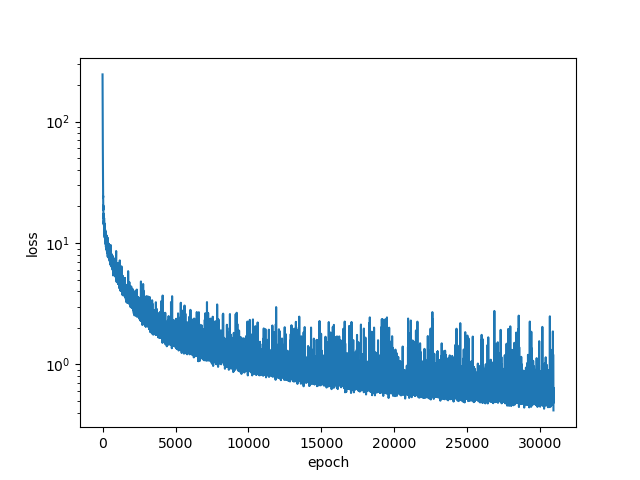
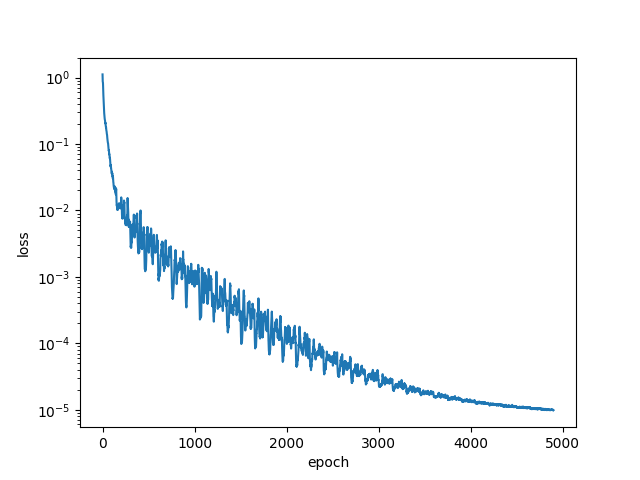
remove old output images and add re20 result refactor stepper and plotter removed autoencoder

diff --git a/stepper.py b/stepper.py
@@ -4,20 +4,21 @@ import torch
 import data_loader
 import vae as V
 import math
-import matplotlib.pyplot as plt
 
 # map reynolds number [1, 200) -> [0, 1)
 def normalize_reynolds( re ):
   # return re
   return math.log( re )
 
+# takes a latent vector and reynolds number, (N, 33)
+# outputs a new latent vector (N, 32)
 class LatentStepper(torch.nn.Module):
   def __init__(self):
     super(LatentStepper, self).__init__()
 
     latent_size = 32
-    hidden_size = 256
-    hidden_layers = 8
+    hidden_size = 128
+    hidden_layers = 6
 
     self.stepper = torch.nn.Sequential(
       torch.nn.Linear( latent_size+1, hidden_size ),
@@ -48,27 +49,27 @@ def main():
   print( 'loading datasets...' )
 
   re200raw = data_loader.load_file( 're200.dat' )
-  re200mu, re200logvar = encoder.encode( re200raw )
+  re200mu, _ = encoder.encode( re200raw )
   del re200raw
   print( 're200 end' )
 
   re100raw = data_loader.load_file( 're100.dat' )
-  re100mu, re100logvar = encoder.encode( re100raw )
+  re100mu, _ = encoder.encode( re100raw )
   del re100raw
   print( 're100 end' )
 
   re60raw = data_loader.load_file( 're60.dat' )
-  re60mu, re60logvar = encoder.encode( re60raw )
+  re60mu, _ = encoder.encode( re60raw )
   del re60raw
   print( 're60 end' )
 
   re40raw = data_loader.load_file( 're40.dat' )
-  re40mu, re40logvar = encoder.encode( re40raw )
+  re40mu, _ = encoder.encode( re40raw )
   del re40raw
   print( 're40 end' )
 
   re5raw = data_loader.load_file( 're5.dat' )
-  re5mu, re5logvar = encoder.encode( re5raw )
+  re5mu, _ = encoder.encode( re5raw )
   del re5raw
   print( 're5 end' )
 
@@ -76,21 +77,11 @@ def main():
 
   prestep_mu = torch.concatenate(
     [
-      re200mu[0:N-1],
-      re100mu[0:N-1],
-      re60mu[0:N-1],
-      re40mu[0:N-1],
-      re5mu[0:N-1]
-    ],
-    dim=0
-  )
-  prestep_logvar = torch.concatenate(
-    [
-      re200logvar[0:N-1],
-      re100logvar[0:N-1],
-      re60logvar[0:N-1],
-      re40logvar[0:N-1],
-      re5logvar[0:N-1]
+      re200mu[0:-1],
+      re100mu[0:-1],
+      re60mu[0:-1],
+      re40mu[0:-1],
+      re5mu[0:-1]
     ],
     dim=0
   )
@@ -104,78 +95,45 @@ def main():
     ],
     dim=0
   )
-  poststep_mu = torch.concatenate(
+  inputs = torch.concatenate( [prestep_mu, prestep_reynolds], dim=1 )
+  answer = torch.concatenate(
     [
-      re200mu[1:N],
-      re100mu[1:N],
-      re60mu[1:N],
-      re40mu[1:N],
-      re5mu[1:N]
-    ],
-    dim=0
-  )
-  poststep_logvar = torch.concatenate(
-    [
-      re200logvar[1:N],
-      re100logvar[1:N],
-      re60logvar[1:N],
-      re40logvar[1:N],
-      re5logvar[1:N]
+      re200mu[1:],
+      re100mu[1:],
+      re60mu[1:],
+      re40mu[1:],
+      re5mu[1:]
     ],
     dim=0
   )
 
 
-  Epochs = 100000
+  Epochs = 5000
   BatchSize = 30
 
   stepper = LatentStepper()
   stepper.train( True )
   optimizer = torch.optim.Adam( stepper.parameters(), lr=0.001 )
-  scheduler = torch.optim.lr_scheduler.ExponentialLR( optimizer, 0.996 )
+  scheduler = torch.optim.lr_scheduler.StepLR( optimizer, step_size=150, gamma=0.85 )
 
   stepper = stepper.to( device )
-  prestep_mu = prestep_mu.to( device )
-  prestep_logvar = prestep_logvar.to( device )
-  prestep_reynolds = prestep_reynolds.to( device )
-  poststep_mu = poststep_mu.to( device )
-  poststep_logvar = poststep_logvar.to( device )
+  inputs = inputs.detach().to( device )
+  answer = answer.detach().to( device )
 
   min_loss = 1e+9
   losses = []
   for epoch in range(Epochs):
-    shuffled_indices = torch.randperm( prestep_mu.shape[0] )
+    shuffled_indices = torch.randperm( inputs.shape[0] )
+    shuffled_inputs = inputs[shuffled_indices].detach().to(device)
+    shuffled_answer = answer[shuffled_indices].detach().to(device)
+    avg_loss = 0
 
-    shuffled_pre_mu = prestep_mu[shuffled_indices].detach()
-    shuffled_pre_logvar = prestep_logvar[shuffled_indices].detach()
-    shuffled_pre_reynolds = prestep_reynolds[shuffled_indices].detach()
-    shuffled_post_mu = poststep_mu[shuffled_indices].detach()
-    shuffled_post_logvar = poststep_logvar[shuffled_indices].detach()
+    for batch in range(0, inputs.shape[0], BatchSize):
+      batch_inputs = shuffled_inputs[batch:batch+BatchSize]
+      batch_answer = shuffled_answer[batch:batch+BatchSize]
 
-    L = 8
-
-    # p(x|z) = exp( -(x-mu)^2 / 2sigma^2 ) / sqrt(2*pi*sigma^2)
-    # log p(x|z) = -(x-mu)^2 / 2sigma^2 - 0.5*log(2*pi*sigma^2)
-    #            = -(x-mu)^2 / 2sigma^2 - 0.5*(  log(sigma^2) + log(2*pi)  )
-    # here, mu and sigma belongs to post step latent distributions
-
-    avg_loss = 0.0
-
-    for batch in range(0, prestep_mu.shape[0], BatchSize):
-      pre_mu = shuffled_pre_mu[batch:batch+BatchSize]
-      pre_logvar = shuffled_pre_logvar[batch:batch+BatchSize]
-      pre_reynolds = shuffled_pre_reynolds[batch:batch+BatchSize]
-      post_mu = shuffled_post_mu[batch:batch+BatchSize]
-      post_logvar = shuffled_post_logvar[batch:batch+BatchSize]
-      log_p = 0.0
-      for sample in range(L):
-        pre_z = encoder.reparameterize( pre_mu, pre_logvar )
-        predict_post_z = stepper( torch.hstack( [pre_z, pre_reynolds] ) )
-        lp = -0.5*(post_mu-predict_post_z).pow(2) / post_logvar.exp() - 0.5*post_logvar
-        log_p = log_p + lp.sum()
-      log_p = log_p / L / BatchSize
-
-      loss = -log_p
+      batch_predict = stepper( batch_inputs )
+      loss = torch.nn.functional.mse_loss( batch_predict, batch_answer )
 
       optimizer.zero_grad()
       loss.backward()
@@ -183,26 +141,18 @@ def main():
       optimizer.step()
     
     scheduler.step()
-    print( optimizer.param_groups[0]['lr'] )
+    # print( f'lr: {optimizer.param_groups[0]['lr']}' )
 
-    avg_loss = avg_loss / (prestep_mu.shape[0]//BatchSize)
+    avg_loss = avg_loss / (inputs.shape[0]//BatchSize)
     losses.append( avg_loss )
     print( "Epoch {} loss: {}".format( epoch, avg_loss ) )
-    if avg_loss < min_loss:
-      min_loss = avg_loss
+
+    if epoch % 100 == 0:
       torch.save( stepper.state_dict(), 'stepper.pt' )
       torch.save( optimizer.state_dict(), 'stepper_optim.pt' )
       torch.save( losses, 'stepper_loss.pt' )
 
 
-
-
-
-  plt.plot( losses )
-  plt.yscale( 'log' )
-  plt.ylabel( 'loss' )
-  plt.xlabel( 'epochs' )
-  plt.show()
 
 if __name__ == '__main__':
   main()

diff --git a/plotter.py b/plotter.py
@@ -1,5 +1,9 @@
 #! /usr/bin/python3
 
+'''
+this will simulate on the latent-space and saves the decoded images
+'''
+
 import os
 
 import matplotlib.pyplot as plt
@@ -42,7 +46,7 @@ def step( re ):
   global state
   global latent_mu, latent_logvar
   next_latent = stepper.step( latent_mu, re )
-  next_state, _ = encoder.decode( next_latent )
+  next_state = encoder.decode( next_latent )
   state = next_state*cylinder_mask
   latent_mu = next_latent
 

diff --git a/README.md b/README.md
@@ -8,14 +8,15 @@ A simulation of wake behind cylinder. dimensionality reduction by variational au
 This is a simple simulation of wake behind a cylinder. 
 The simulation is done using Lattice Boltzmann Method. ( see `cylinder.cpp` )
 
-The simulation is done for three different Reynolds numbers($Re = 5, 40, 200$). 
+The simulation is done for five different Reynolds numbers($Re = 5, 40, 60, 100, 200$). 
 
 ### 2. Dimensionality reduction by Variational Auto Encoder
-The simulation data is then used to train an variational auto encoder to reduce the dimensionality of the data to 32-sized latent space. ( `autoencoder.py`)
+The simulation data is then used to train an variational auto encoder to reduce the dimensionality of the data to 32-sized latent space (`vae.py`).
+This took about 10 minutes on single RTX 3090 GPU.
 
 ### 3. Neural network to predict time integral of latent space
 We then defined a neural network to predict time integral `step()` function on the latent space.
-Neural network takes 32-sized latent vector **z** and Reynolds number $Re$ as input and predicts the next latent vector **z'**. ( `stepper.py` )
+Neural network takes 32-sized latent vector **z** and Reynolds number $Re$ as input and predicts the next latent vector **z'**. (`stepper.py`)
 
 We will see that the neural network is able to predict the next latent vector with untrained Reynolds number.
 
@@ -23,11 +24,48 @@ We will see that the neural network is able to predict the next latent vector wi
 - [] Test LSTM for latent stepper - (WIP)
 - [] Test Transformer for latent stepper
 
+## How to run
+
+### creating simulated training data by LBM
+```bash
+$ mkdir build
+cmake ..
+make
+./CylinderLBM
+```
+This will create `re5.dat`, `re40.dat`, `re60.dat`, `re100.dat` and `re200.dat` in current directory.
+
+### training VAE
+```bash
+python ../vae.py
+```
+This will train VAE and save the model `vae.pt` in current directory.
+
+### training LatentStepper
+```bash
+python ../stepper.py
+```
+This will train LatentStepper and save the model `stepper.pt` in current directory.
+
+### plotting latent-simulation result
+```bash
+python ../plotter.py ReynoldsNumber
+```
+This performs the simulation on latent space and saves the result in `plots$Re/` directory.
+
+### making gif & mp4
+```bash
+sh ../png2gif.sh ReynoldsNumber
+```
+```bash
+sh ../png2mp4.sh ReynoldsNumber
+```
+
 ## Results
 
 ### Loss of VAE
 
-![](result/autoencoder_loss.png)
+![](result/vae_loss.png)
 
 ### Snapshots of compressed result
 
@@ -42,20 +80,14 @@ One horizontal line represents compressed snapshot of specific time step, and th
 ![](result/latent_stepper_loss.png)
 
 
-## Result of reconstruction from latent space
+## Result of Untrained Reynolds number, reconstructed from VAE
 
-### $Re = 5$
+### $Re = 20$
+`result/out20.gif`
 
-![](result/plots5/plot0001.png)
-![](result/plots5/plot0010.png)
-
-### $Re = 30$
-
-![](result/plots30/plot0004.png)
-![](result/plots30/plot0030.png)
+![](result/out20.gif)
 
 ### $Re = 150$
+`result/out150.gif`
 
-![](result/plots150/plot0010.png)
-![](result/plots150/plot0050.png)
-![](result/plots150/plot0100.png)
+![](result/out150.gif)
